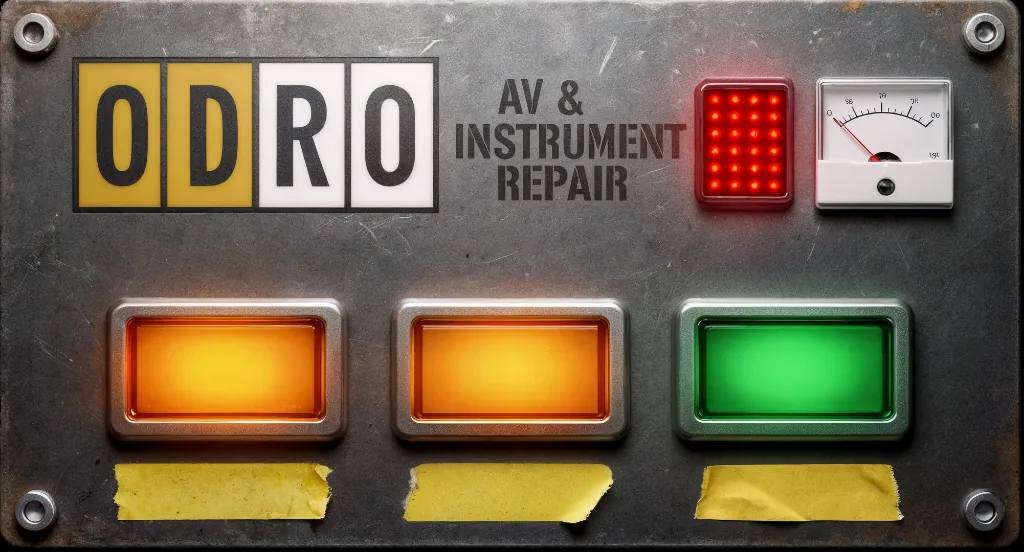
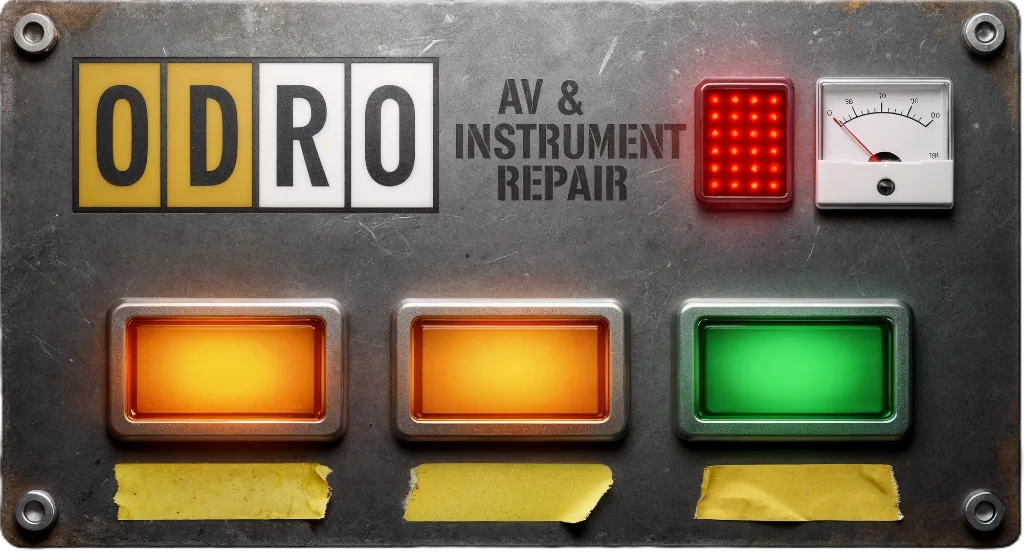
Performance: WebP images, remove archive CSS and junk files

Changed region(s): [[0.0, 0.0, 1.0, 1.0], [0.0, 0.0, 0.0312, 0.0308]]

diff --git a/src/routes/signage.tsx b/src/routes/signage.tsx
@@ -269,7 +269,7 @@ signage.get('/', (c) => {
     <!-- HEADER BAR (Persistent) -->
     <div class="header-bar">
       <div class="header-left">
-        <img src="/static/crs-badge-square.png" alt="CRS" class="header-logo" />
+        <img src="/static/crs-badge-square.webp" alt="CRS" class="header-logo" />
         <span class="header-address">118 Cowley Road · Oxford · OX4 1JE</span>
       </div>
       <div class="header-right">
@@ -297,7 +297,7 @@ signage.get('/', (c) => {
     <!-- SLIDE 2: Recording Services (CRS) -->
     <div class="slide slide-crs" data-duration="10000">
       <div class="slide-content">
-        <picture><source srcset="/static/crs-rack-badge.webp" type="image/webp" /><img src="/static/crs-rack-badge.png" alt="CRS" class="brand-logo" /></picture>
+        <picture><source srcset="/static/crs-rack-badge.webp" type="image/webp" /><img src="/static/crs-rack-badge.webp" alt="CRS" class="brand-logo" /></picture>
         <h1 class="slide-title">RECORDING STUDIO</h1>
         <p class="slide-subtitle">Cowley Road · Full Production Facility</p>
         <p class="slide-body">
@@ -311,7 +311,7 @@ signage.get('/', (c) => {
     <!-- SLIDE 3: Rehearsal (Cricket Road) -->
     <div class="slide slide-cricket" data-duration="10000">
       <div class="slide-content">
-        <img src="/static/cricket-road-sign.png" alt="Cricket Road" class="brand-logo" />
+        <img src="/static/cricket-road-sign.webp" alt="Cricket Road" class="brand-logo" />
         <h1 class="slide-title">REHEARSAL ROOMS</h1>
         <p class="slide-subtitle">Cricket Road · OX4 3DJ</p>
         <p class="slide-body">
@@ -325,7 +325,7 @@ signage.get('/', (c) => {
     <!-- SLIDE 4: Workshop Café -->
     <div class="slide slide-workshop" data-duration="10000">
       <div class="slide-content">
-        <img src="/static/workshop-cafe-logo.png" alt="Workshop Café" class="brand-logo large" />
+        <img src="/static/workshop-cafe-logo.webp" alt="Workshop Café" class="brand-logo large" />
         <h1 class="slide-title">THE WORKSHOP CAFÉ</h1>
         <p class="slide-subtitle">118 Cowley Road · Front Space</p>
         <div class="features-list">
@@ -341,7 +341,7 @@ signage.get('/', (c) => {
     <!-- SLIDE 5: Repair Service -->
     <div class="slide slide-repair" data-duration="10000">
       <div class="slide-content">
-        <img src="/static/crs-badge-square.png" alt="CRS" class="brand-logo" />
+        <img src="/static/crs-badge-square.webp" alt="CRS" class="brand-logo" />
         <h1 class="slide-title">REPAIR SERVICE</h1>
         <p class="slide-subtitle">Instruments & AV Equipment</p>
         <p class="slide-body">

diff --git a/src/index.tsx b/src/index.tsx
@@ -1084,8 +1084,8 @@ app.get('/', (c) => {
   <link rel="canonical" href="https://cowleyroadstudios.com/" />
   
   <!-- Favicon -->
-  <link rel="icon" type="image/png" href="/crs-logo.png" />
-  <link rel="apple-touch-icon" href="/crs-logo.png" />
+  <link rel="icon" type="image/png" href="/crs-logo.webp" />
+  <link rel="apple-touch-icon" href="/crs-logo.webp" />
 
   <!-- LCP image preload — fetchpriority high so it starts in preload scan -->
   <link rel="preload" as="image" href="/static/crs-logo.webp" fetchpriority="high" type="image/webp" />
@@ -1512,7 +1512,7 @@ function servicePageHtml({
   <meta name="description" content="${description}" />
   ${keywords ? `<meta name="keywords" content="${keywords}" />` : ''}
   <link rel="canonical" href="https://cowleyroadstudios.com/${slug}" />
-  <link rel="icon" type="image/png" href="/crs-logo.png" />
+  <link rel="icon" type="image/png" href="/crs-logo.webp" />
   ${SERVICE_CSS}
 </head>
 <body>
@@ -1833,7 +1833,7 @@ app.get('/workshop-cafe', (c) => {
     content: `
 <main class="sp-main">
   <div class="sp-cafe-hero">
-    <img src="/static/workshop-cafe-logo.png" alt="Workshop Café" class="sp-cafe-hero-logo" />
+    <img src="/static/workshop-cafe-logo.webp" alt="Workshop Café" class="sp-cafe-hero-logo" />
     <div class="sp-cafe-hero-text">
       <span class="sp-eyebrow">Community Space</span>
       <h1 class="sp-title">Workshop Café</h1>
@@ -2693,8 +2693,8 @@ app.get('/live-display', (c) => {
   <link href="https://fonts.googleapis.com/css2?family=JetBrains+Mono:wght@400;600;700&display=swap" rel="stylesheet" />
 
   <!-- Preload both sign images so transition is instant -->
-  <link rel="preload" as="image" href="/static/signage/cowley-road-studios-rack-sign.png" />
-  <link rel="preload" as="image" href="/static/signage/workshop-cafe-rack-sign.png" />
+  <link rel="preload" as="image" href="/static/signage/cowley-road-studios-rack-sign.webp" />
+  <link rel="preload" as="image" href="/static/signage/workshop-cafe-rack-sign.webp" />
 
   <!-- Critical reset: fullscreen, no scroll, black bg -->
   <style>

diff --git a/src/pages/RackAccordion.tsx b/src/pages/RackAccordion.tsx
@@ -51,7 +51,7 @@ export const RackAccordion = () => {
             type="image/webp"
           />
           <img 
-            src="/static/rack-images/welcome-rack-updated.jpg"
+            src="/static/rack-images/welcome-rack-updated.webp"
             alt="CRS Welcome Rack - Main navigation and booking with wood frame" 
             class="rack-module-img"
             width="1024"
@@ -120,7 +120,7 @@ export const RackAccordion = () => {
             type="image/webp"
           />
           <img 
-            src="/static/rack-images/recording-services-new.jpg"
+            src="/static/rack-images/recording-services-new.webp"
             alt="Recording Services - Cowley Road (Green) & Cricket Road (Purple) Studios" 
             class="rack-module-img"
             width="1024"
@@ -185,7 +185,7 @@ export const RackAccordion = () => {
             type="image/webp"
           />
           <img 
-            src="/static/rack-images/rehearsal-services-updated.jpg"
+            src="/static/rack-images/rehearsal-services-updated.webp"
             alt="Rehearsal Services - Cowley Road (Green) & Cricket Road (Purple) with wood frame" 
             class="rack-module-img"
             width="1024"
@@ -294,7 +294,7 @@ export const RackAccordion = () => {
             type="image/webp"
           />
           <img 
-            src="/static/rack-images/odro-repair-panel.jpg"
+            src="/static/rack-images/odro-repair-panel.webp"
             alt="ODRO - AV & Instrument Repair" 
             class="rack-module-img"
             width="1920"

diff --git a/src/pages/WorkshopCafeContact.tsx b/src/pages/WorkshopCafeContact.tsx
@@ -53,7 +53,7 @@ export const WorkshopCafeContactPage = ({ initialService = 'private-hire', statu
             <picture>
               <source srcset="/static/workshop-cafe-logo.webp" type="image/webp" />
               <img
-                src="/static/workshop-cafe-logo.png"
+                src="/static/workshop-cafe-logo.webp"
                 alt="The Workshop Café"
                 class="wsc-header-logo"
                 width="160" height="60"
@@ -275,7 +275,7 @@ export const WorkshopCafeContactPage = ({ initialService = 'private-hire', statu
             <picture>
               <source srcset="/static/workshop-cafe-logo.webp" type="image/webp" />
               <img
-                src="/static/workshop-cafe-logo.png"
+                src="/static/workshop-cafe-logo.webp"
                 alt="The Workshop Café"
                 class="subpage-seal-img wsc-seal-img"
                 width="120" height="45"

diff --git a/public/static/studio-rack-demo.css b/public/static/studio-rack-demo.css
@@ -93,7 +93,7 @@ button { background: none; border: none; font: inherit; cursor: pointer; }
   content: '';
   position: fixed;
   inset: 0;
-  background-image: url('/static/images/bg-cafe-neon.jpg');
+  background-image: url('/static/images/bg-cafe-neon.webp');
   /* Image is 869×214px — very wide, shallow strip.
      100% width keeps it full-bleed; auto height preserves aspect ratio.
      The sign sits 30–60% down the image, so at 100vw width the strip
@@ -3486,7 +3486,7 @@ body.subpage::before {
   content: '';
   position: fixed;
   inset: 0;
-  background-image: url('/static/images/bg-cafe-neon.jpg');
+  background-image: url('/static/images/bg-cafe-neon.webp');
   background-size: cover;
   background-position: top center;
   background-repeat: no-repeat;

diff --git a/src/components/ServicePageLayout.tsx b/src/components/ServicePageLayout.tsx
@@ -57,7 +57,7 @@ export const ServicePageShell = ({ title, description, keywords, isCafe = false,
   <meta name="description" content="${description}" />
   ${keywords ? `<meta name="keywords" content="${keywords}" />` : ''}
   <link rel="canonical" href="https://cowleyroadstudios.com" />
-  <link rel="icon" type="image/png" href="/crs-logo.png" />
+  <link rel="icon" type="image/png" href="/crs-logo.webp" />
   <link rel="preconnect" href="https://fonts.googleapis.com" />
   <link rel="preconnect" href="https://fonts.gstatic.com" crossorigin />
   <link href="https://fonts.googleapis.com/css2?family=Inter:wght@400;500;600;700&display=swap" rel="stylesheet" />

diff --git a/src/pages/WorkshopCafe.tsx b/src/pages/WorkshopCafe.tsx
@@ -37,7 +37,7 @@ export const WorkshopCafePage = () => (
       <div class="subpage-header-anchor">
         <a href="/" aria-label="Cowley Road Studios — home">
           <img
-            src="/static/workshop-cafe-logo.png"
+            src="/static/workshop-cafe-logo.webp"
             alt="Workshop Café"
             class="subpage-header-logo"
             width="160" height="60"
